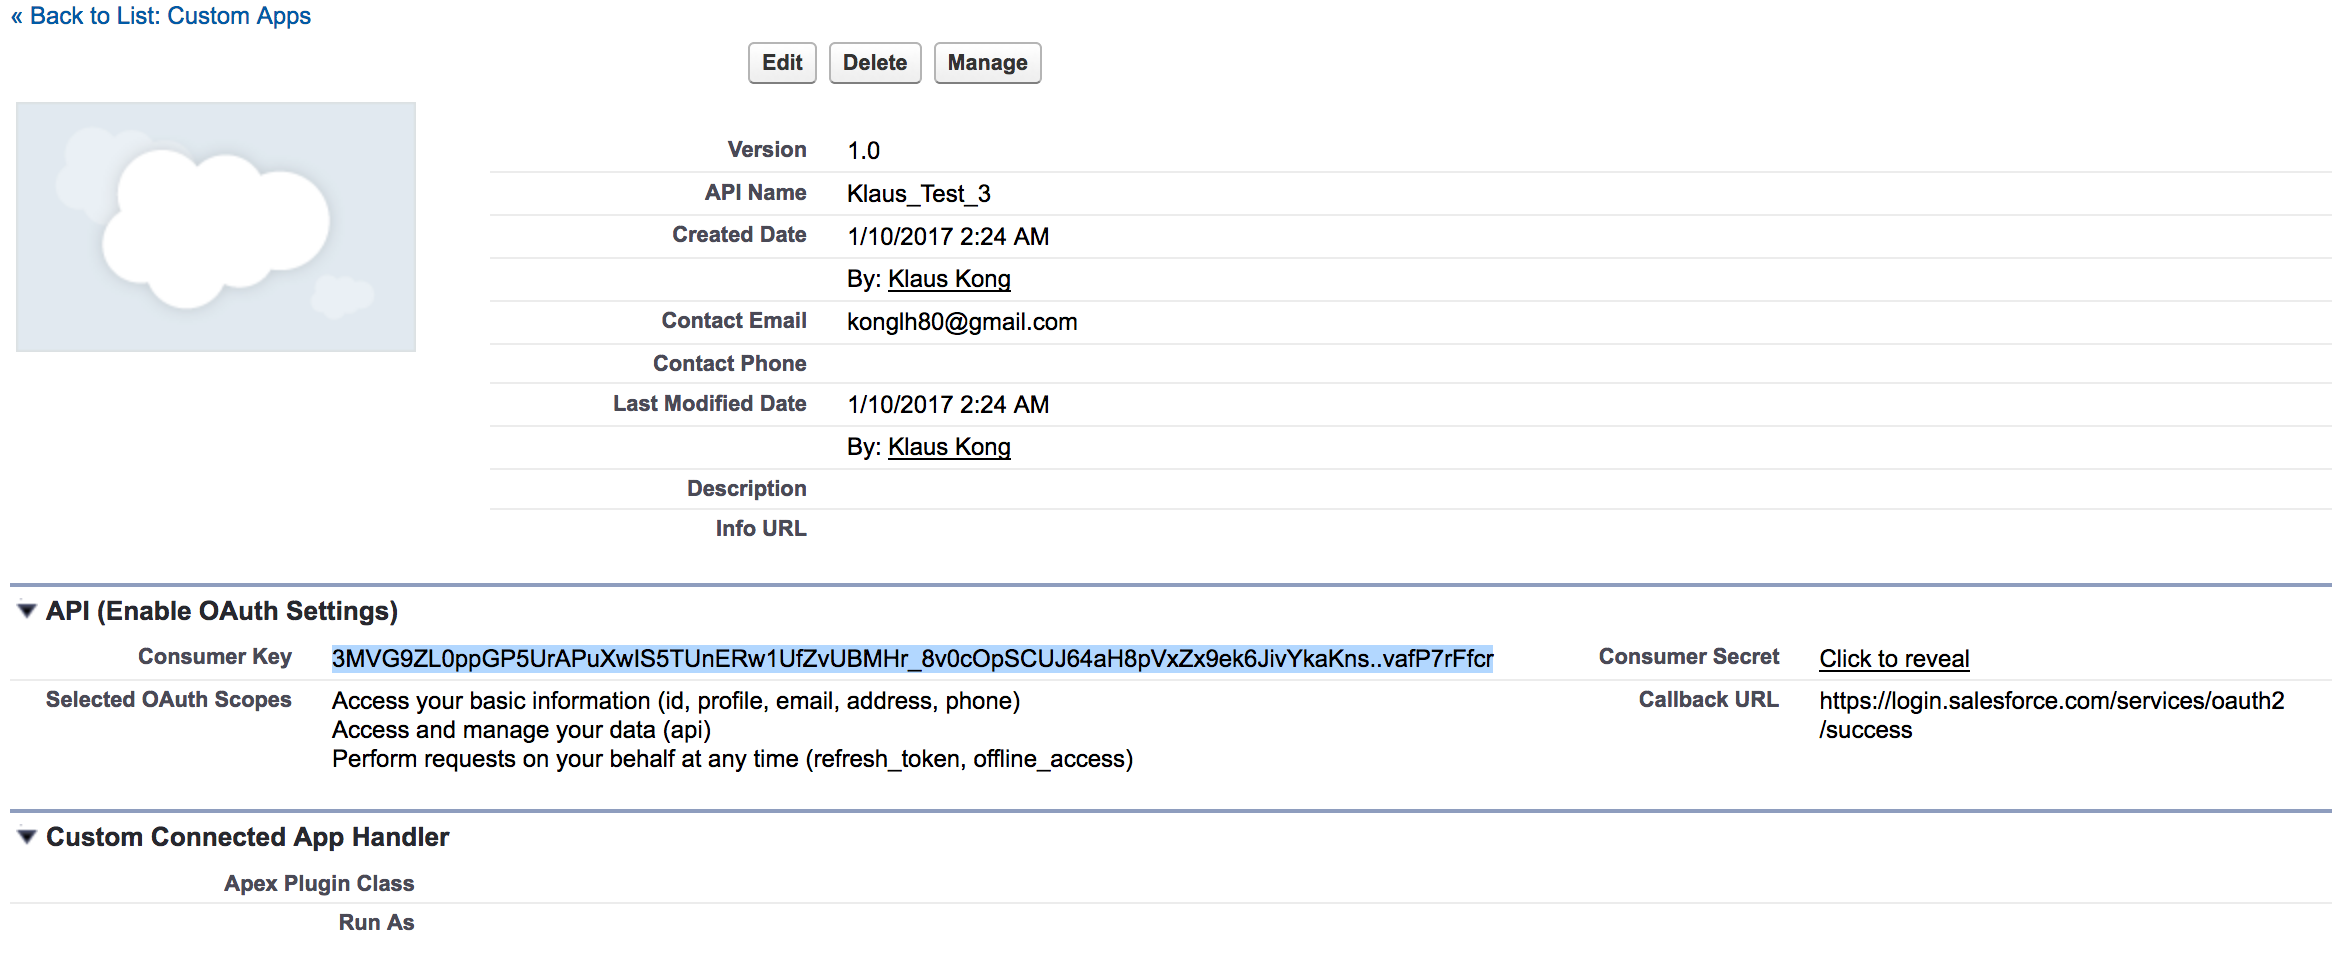
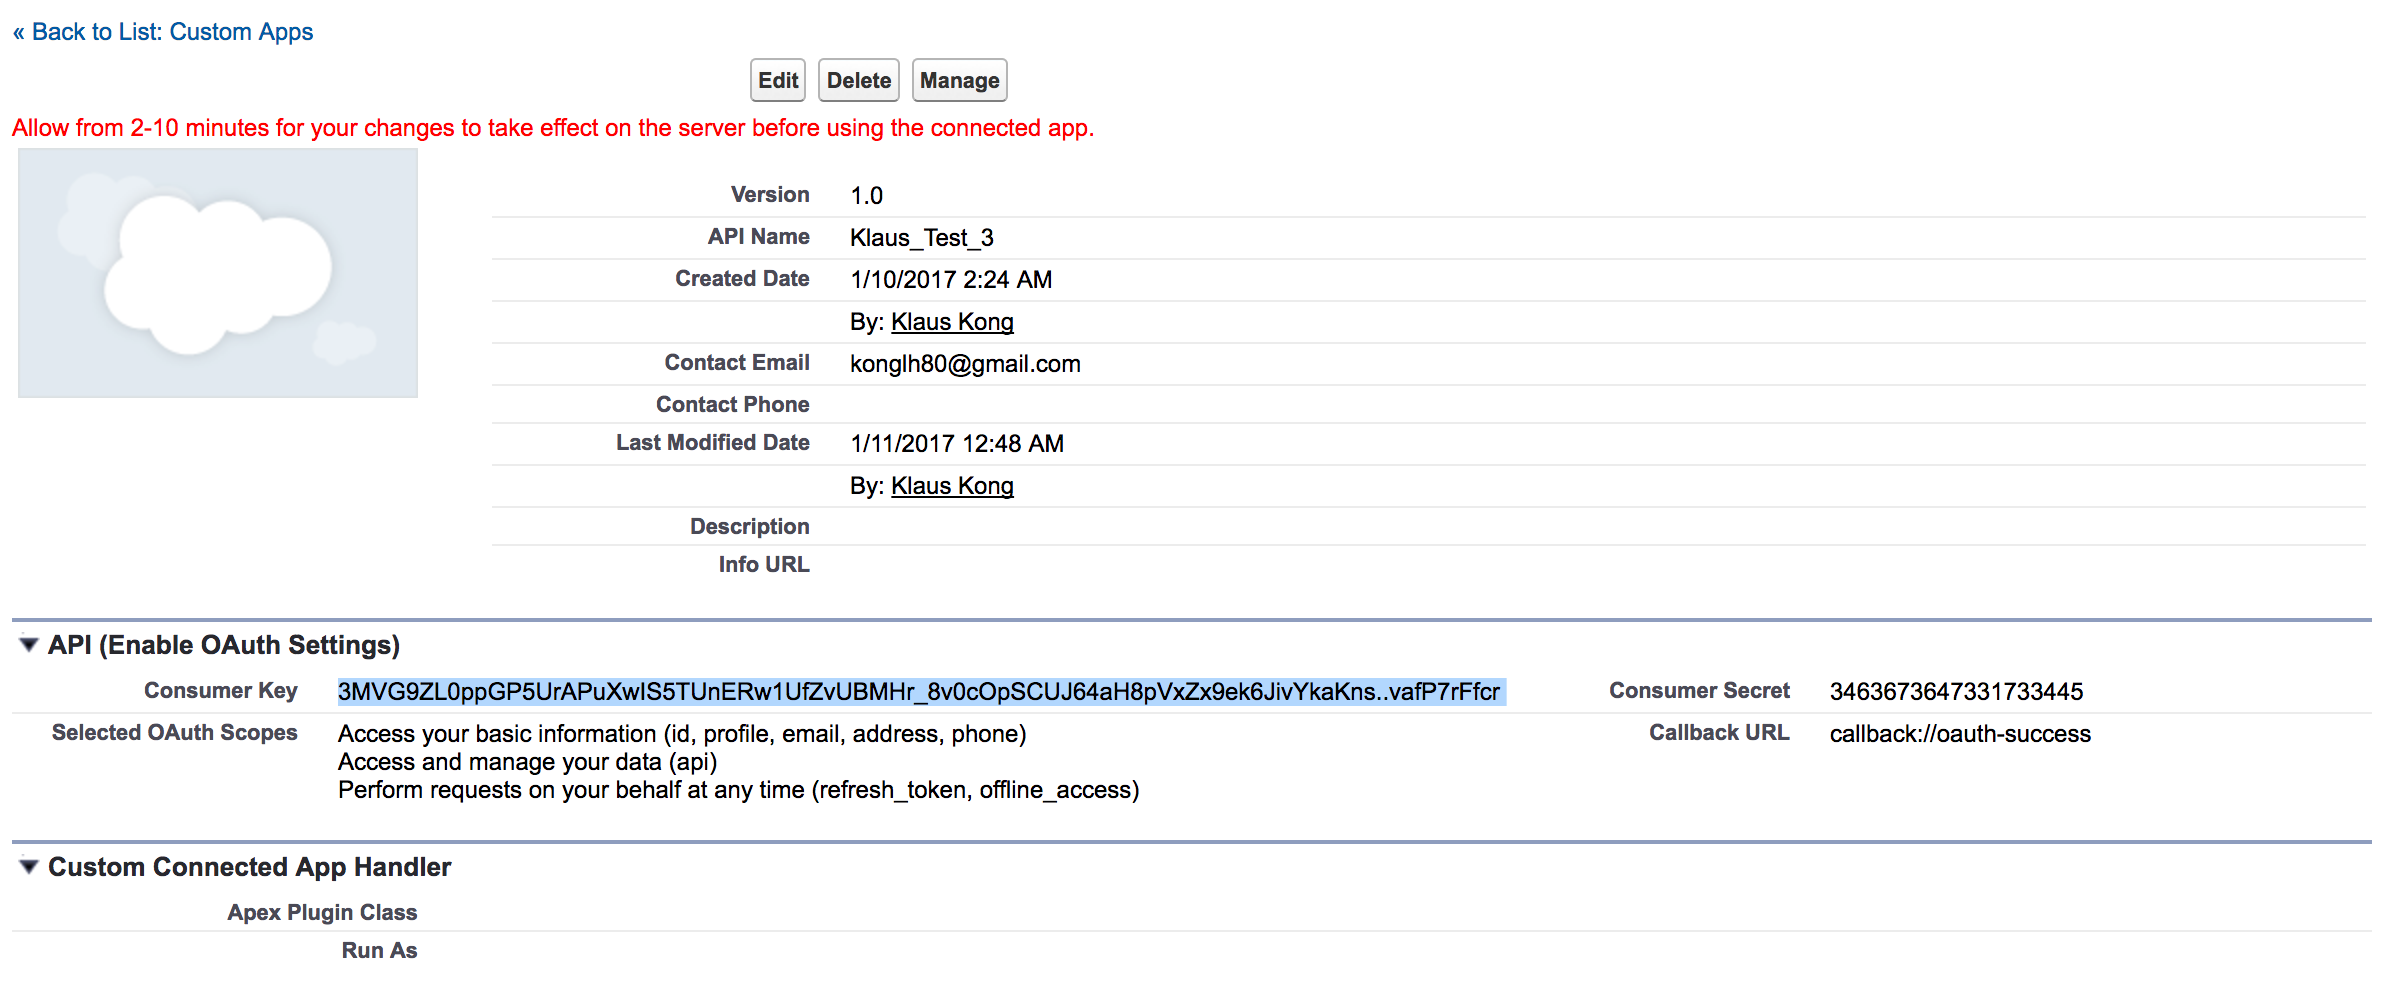
Update readme.md

diff --git a/README.md b/README.md
@@ -3,35 +3,117 @@
   - 创建一个Connected App
   - User-Agent OAuth Authentication Flow
   - 调用Salesforce REST API
-  - Production与Sandbox的差别
-
+  - 使用Salesforce Workbench
+  - 使用Refresh Token获取新的Access Token
 
 ## 创建一个Connected App
 - 打开[Apps列表](https://ap2.salesforce.com/02u?retURL=%2Fui%2Fsetup%2FSetup%3Fsetupid%3DDevTools&setupid=TabSet)，点击新建一个Connected App。
 ![New Connected App](/images/new-connected-app-button.png)
 - 填写`Connected App Name`，`API Name(自动生成)`，`Contact Email`。
 ![New Connected App](/images/new-connected-app.png)
-- 勾选`API (Enable OAuth Settings)`部分的`Enable OAuth Settings`，并继续填写`Callback URL`，其值固定为`https://login.salesforce.com/services/oauth2/success`。
+- 勾选`API (Enable OAuth Settings)`部分的`Enable OAuth Settings`，并继续填写`Callback URL`，例如：`callback://oauth-success`。
 - 选择`Selected OAuth Scopes`，包括`Access and manage your data (api)`，`Access your basic information (id, profile, email, address, phone)`，`Perform requests on your behalf at any time (refresh_token, offline_access)`，其余可不填，页面下方找到并点击`Save`按钮。
 ![New Connected App](/images/new-connected-app-consumer-key.png)
-- 创建成功后会进入`Connected App Detail`页面，其中我们唯一需要的是`Consumer Key`
+- 创建成功后会进入`Connected App Detail`页面，其中我们唯一需要的是`Consumer Key`。
 
-*PS：新建的Connected App需要等几分钟后生效。*
+*PS：新建的Connected App需要等几分钟后生效，立即使用`Consumer Key`有时会提示无效。*
+
 *[官方文档供参考](https://developer.salesforce.com/docs/atlas.en-us.api_rest.meta/api_rest/intro_defining_remote_access_applications.htm)。*
 
 ## User-Agent OAuth Authentication Flow
 调用REST API前需要引导用户进行OAuth认证以获得Access Token，下面介绍Salesforce User-Agent OAuth Authentication Flow。
-- 将用户引导至`https://login.salesforce.com/services/oauth2/authorize`，并在URL中附加如下参数。
+- 将用户引导至`https://login.salesforce.com/services/oauth2/authorize`，并在URL中附加如下参数。（Sandbox环境认证URL是`https://test.salesforce.com/services/oauth2/authorize`）
 1. `response_type=token`
 2. `client_id=<上一步创建Connected App后得到的Consumer Key>`
-3. `redirect_uri=https://login.salesforce.com/services/oauth2/success`
+3. `redirect_uri=callback://oauth-success`（此处`redirect_uri`与创建Connected App时填写的`Callback URL`一致）
 ```
 // 样例
-https://login.salesforce.com/services/oauth2/authorize?response_type=token&client_id=3MVG9ZL0ppGP5UrAPuXwIS5TUnERw1UfZvUBMHr_8v0cOpSCUJ64aH8pVxZx9ek6JivYkaKns..vafP7rFfcr&redirect_uri=https://login.salesforce.com/services/oauth2/success
+https://login.salesforce.com/services/oauth2/authorize?response_type=token&client_id=3MVG9ZL0ppGP5UrAPuXwIS5TUnERw1UfZvUBMHr_8v0cOpSCUJ64aH8pVxZx9ek6JivYkaKns..vafP7rFfcr&redirect_uri=callback://oauth-success
 ```
-- 接下来用户会在Salesforce标准登录页面输入自己的用户名和密码完成认证过程，认证成功后会跳转至`https://login.salesforce.com/services/oauth2/success`页面，并会将Access Token等数据附加到URL中
+- 接下来用户需要在Salesforce标准登录页面输入自己的用户名和密码完成认证过程，认证成功后会跳转至`callback://oauth-success`页面，并会将`access_token/refresh_token/instance_url`等信息附加到URL中。
 ```
 // 样例
-https://login.salesforce.com/services/oauth2/success#access_token=00Dx0000000BV7z%21AR8AQBM8J_xr9kLqmZIRyQxZgLcM4HVi41aGtW0qW3JCzf5xdTGGGSoVim8FfJkZEqxbjaFbberKGk8v8AnYrvChG4qJbQo8&refresh_token=5Aep8614iLM.Dq661ePDmPEgaAW9Oh_L3JKkDpB4xReb54_pZfVti1dPEk8aimw4Hr9ne7VXXVSIQ%3D%3D
+callback://oauth-success#access_token=00D28000000HjOH%21AQgAQPTO8.7zlmIe9EOXhdAzkXvQLdnj3EPCK1LkZPILEKoxMj0yz18nq6Hjns7sEzfkBaaLprVMRnOkEElgZsSV2_JEcunB&refresh_token=5Aep861TSESvWeug_wdvqFJuAURkIDcmWIctIHpXuYSqCDJ1uXoiCPLp_cpSjmwT6gu1lhCxIQNir9JM.wEHsxO&instance_url=https%3A%2F%2Fap2.salesforce.com&id=https%3A%2F%2Flogin.salesforce.com%2Fid%2F00D28000000HjOHEA0%2F00528000000Dp5CAAS&issued_at=1484124973986&signature=CeCJcczYoBZtXRHgIf%2BbiCcMvkwjRhhMsd0d1nybmT8%3D&scope=id+api+refresh_token&token_type=Bearer
 ```
-*PS：由于Access Token/Refresh Token等数据包含在URL中返回，某些情况会包含特殊字符，因此会被URI转码，需要进行URI解码后使用，确保无误。*
+*PS：由于access_token/refresh_token/instance_url等数据包含在URL中返回，某些情况会包含特殊字符，因此会被URI转码，需要进行URI解码后使用，确保无误。*
+
+*[官方文档供参考](https://developer.salesforce.com/docs/atlas.en-us.api_rest.meta/api_rest/intro_understanding_user_agent_oauth_flow.htm)*
+
+## 使用Salesforce REST API
+OAuth成功后返回的数据中，`instance_url`和`access_token`，用于直接访问Salesforce REST API。在向Salesforce发起REST请求之前需要做一些准备工作。
+
+- 使用`instance_url`构建所访问的ORG的REST API的基础URL，所有的针对Salesforce发起的REST请求都基于此URL。
+```
+<instance_url>/services/data/v37.0
+```
+- 设置HTTP请求的Header。
+```
+'Content-Type' = 'application/json'
+'Authorization' = 'Bearer ' + access_token
+```
+
+### 使用query API
+
+使用query API查询Salesforce中的各类型数据。
+例子：
+```
+HTTP Method: GET
+URL: <instance_url>/services/data/v37.0/query?q=SELECT id,name,profile.name FROM user WHERE username='konglh80@gmail.com'
+```
+*参考：
+[Executes the specified SOQL query](https://developer.salesforce.com/docs/atlas.en-us.api_rest.meta/api_rest/resources_query.htm)
+[Execute a SOQL Query](https://developer.salesforce.com/docs/atlas.en-us.api_rest.meta/api_rest/dome_query.htm)*
+
+### 创建记录
+通过REST API创建一条Moblor_Tack__TimeCard__c记录。
+例子：
+`<instance_url>/services/data/v37.0/sobjects/<Object API Name>/`
+```
+HTTP Method: POST
+URL: <instance_url>/services/data/v37.0/sobjects/Moblor_Tack__TimeCard__c/
+Body: 
+{
+  "Moblor_Tack__TeamMember__c":"a2fN0000000qOM0IAM",
+  "Moblor_Tack__Description__c":"Time card description",
+  "Moblor_Tack__Hours__c":"3"
+}
+```
+
+*PS：创建时提供的数据中Moblor_Tack__TeamMember__c必须是当前登录人的ID，也就是只能为自己填写TimeCard。*
+
+*参考：
+[Create a Record](https://developer.salesforce.com/docs/atlas.en-us.api_rest.meta/api_rest/dome_sobject_create.htm)*
+
+### 更新记录
+通过REST API更新一条Moblor_Tack__TimeCard__c记录。
+例子：
+`<instance_url>/services/data/v37.0/sobjects/<Object API Name>/<Record ID>`
+```
+HTTP Method: PATCH
+URL: <instance_url>/services/data/v37.0/sobjects/Moblor_Tack__TimeCard__c/a2gN0000000SCfAIAW
+Body: 
+{
+  "Moblor_Tack__Hours__c":"1"
+}
+```
+
+*参考：
+[Update a Record](https://developer.salesforce.com/docs/atlas.en-us.api_rest.meta/api_rest/dome_update_fields.htm)*
+
+### 删除记录
+通过REST API删除一条Moblor_Tack__TimeCard__c记录。
+例子：
+`<instance_url>/services/data/v37.0/sobjects/<Object API Name>/<Record ID>`
+```
+HTTP Method: DELETE
+URL: <instance_url>/services/data/v37.0/sobjects/Moblor_Tack__TimeCard__c/a2gN0000000SCfAIAW
+```
+
+*PS：Time Card不能被删除，请求会返回400错误。=。=！*
+
+*参考：
+[Delete a Record](https://developer.salesforce.com/docs/atlas.en-us.api_rest.meta/api_rest/dome_delete_record.htm)*
+
+
+
+
